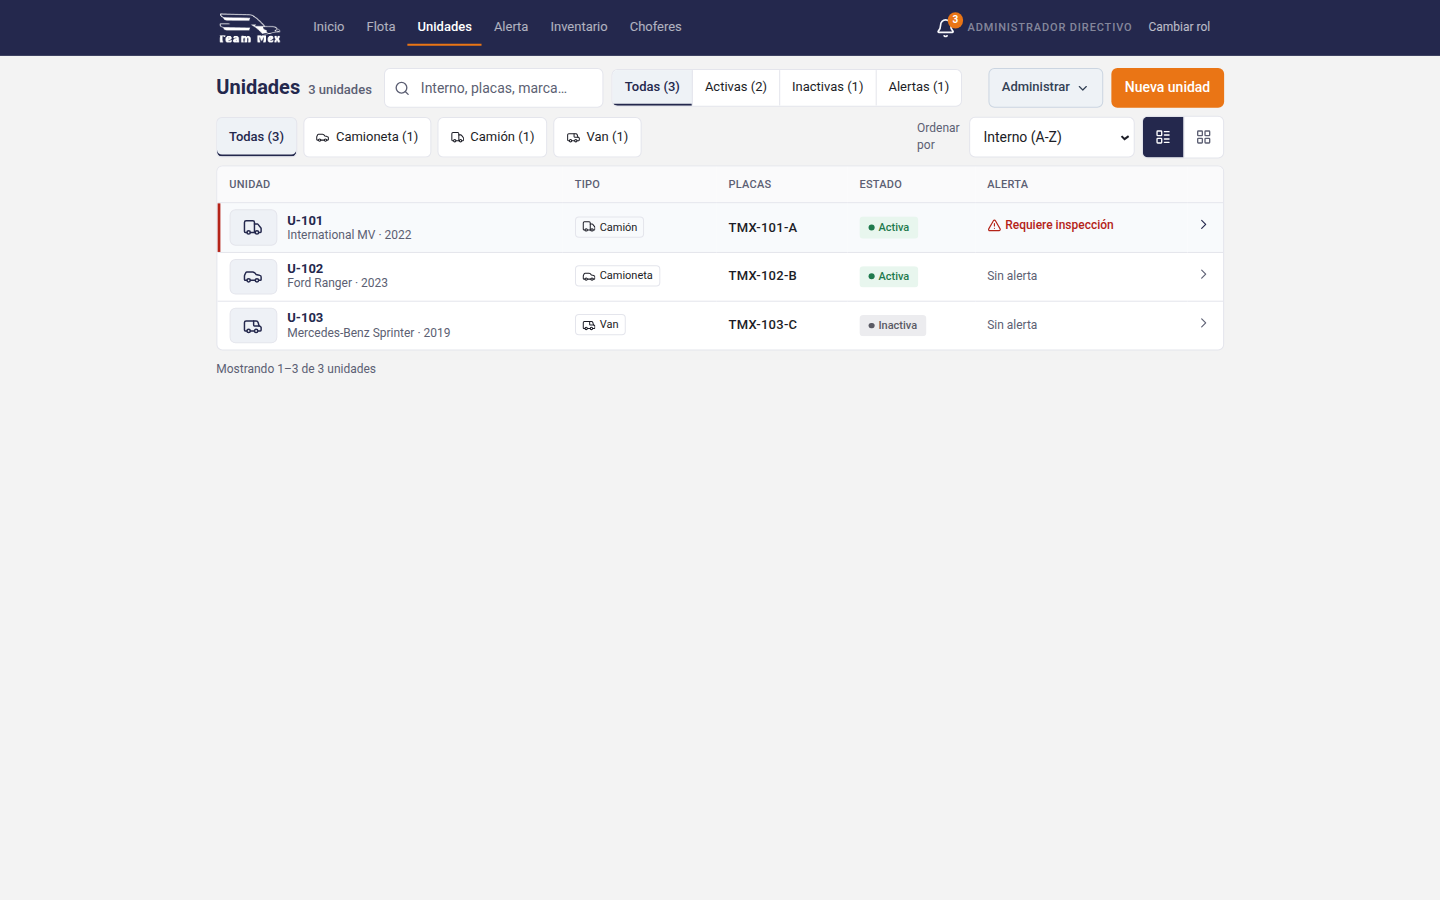
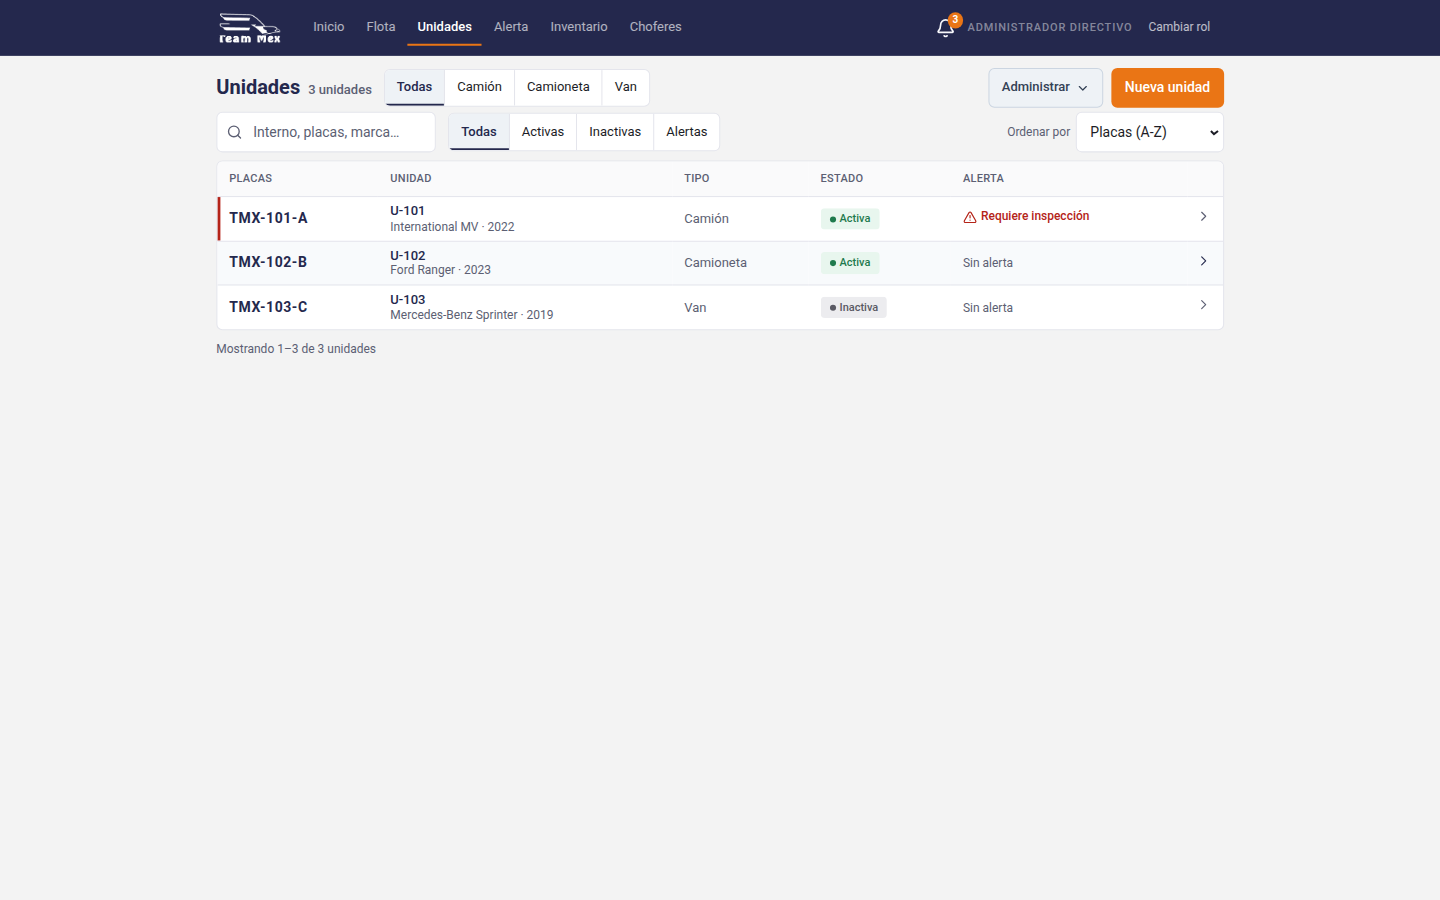
fix(web): Mode B Unidades chrome matches Stock
Tipo chips sit on the title row; search and estado drop to the tools row. Placas stay first without per-row Lucide. Recapture hovered d1440 shots.

diff --git a/web/src/components/UnidadesCatalogo.tsx b/web/src/components/UnidadesCatalogo.tsx
@@ -20,7 +20,6 @@ import { Input, NativeSelect } from '@/components/ui/input';
 import {
   avisoDeUnidad,
   etiquetaSituacionAtencion,
-  kpisFlota,
   ordenarTiposChip,
   ordenarUnidades,
   situacionAtencion,
@@ -134,7 +133,6 @@ export function UnidadesCatalogo({
   const [page, setPage] = useState(1);
   const [isMobile, setIsMobile] = useState(false);
 
-  const kpis = useMemo(() => kpisFlota(flota, avisos), [flota, avisos]);
   const tipoSeleccionado = tipos.find((t) => t.id === tipoFiltro) ?? null;
   const estadoChip: EstadoChip = atencionFiltro
     ? 'ATENCION'
@@ -209,15 +207,9 @@ export function UnidadesCatalogo({
         id: 'unidad',
         header: 'Unidad',
         cell: ({ row }) => (
-          <div className="unidades-unidad">
-            <UnidadTipoMark
-              nombre={row.original.tipo.nombre}
-              icono={row.original.tipo.icono}
-            />
-            <div>
-              <div className="unidades-interno">{row.original.numeroInterno}</div>
-              <div className="unidades-modelo">{etiquetaUnidad(row.original)}</div>
-            </div>
+          <div>
+            <div className="unidades-interno">{row.original.numeroInterno}</div>
+            <div className="unidades-modelo">{etiquetaUnidad(row.original)}</div>
           </div>
         ),
       },
@@ -225,16 +217,7 @@ export function UnidadesCatalogo({
         id: 'tipo',
         header: 'Tipo',
         cell: ({ row }) => (
-          <Badge
-            variant="outline"
-            className="gap-1 font-normal normal-case tracking-normal"
-          >
-            <UnidadTipoIcon
-              nombre={row.original.tipo.nombre}
-              icono={row.original.tipo.icono}
-            />
-            {row.original.tipo.nombre}
-          </Badge>
+          <span className="unidades-tipo">{row.original.tipo.nombre}</span>
         ),
       },
       {
@@ -263,77 +246,74 @@ export function UnidadesCatalogo({
           title="Unidades"
           countLabel={`${ordenadas.length} ${ordenadas.length === 1 ? 'unidad' : 'unidades'}`}
           filters={
-            <>
-              <div className="list-chrome__search">
-                <Search
-                  className="pointer-events-none absolute top-1/2 left-2.5 size-4 -translate-y-1/2 text-muted-foreground"
-                  aria-hidden
-                />
-                <Input
-                  value={q}
-                  onChange={(e) => onQ(e.target.value)}
-                  placeholder="Interno, placas, marca…"
-                  aria-label="Buscar unidad"
-                  className="pl-9"
-                />
-              </div>
+            tiposChip.length > 0 ? (
               <ListFilter
-                label="Estado"
+                label="Tipo"
                 segmented
-                value={estadoChip}
+                value={tipoChipValue}
                 options={[
-                  { id: 'TODOS', label: `Todas (${kpis.total})` },
-                  { id: 'ACTIVA', label: `Activas (${kpis.activas})` },
-                  { id: 'INACTIVA', label: `Inactivas (${kpis.inactivas})` },
-                  { id: 'ATENCION', label: `Alertas (${kpis.conAviso})` },
+                  { id: 'TODAS', label: 'Todas' },
+                  ...tiposChip.map((tipo) => ({
+                    id: tipo.id,
+                    label: tipo.nombre,
+                  })),
                 ]}
-                onChange={aplicarEstado}
+                onChange={(next) =>
+                  onTipoFiltro(next === 'TODAS' ? '' : next)
+                }
               />
-              {tiposChip.length > 0 ? (
-                <ListFilter
-                  label="Tipo"
-                  segmented
-                  value={tipoChipValue}
-                  options={[
-                    { id: 'TODAS', label: 'Todas' },
-                    ...tiposChip.map((tipo) => ({
-                      id: tipo.id,
-                      label: tipo.nombre,
-                    })),
-                  ]}
-                  onChange={(next) =>
-                    onTipoFiltro(next === 'TODAS' ? '' : next)
-                  }
-                />
-              ) : null}
-              {buscando ? (
-                <Button
-                  type="button"
-                  variant="quiet"
-                  onClick={limpiarFiltros}
-                >
-                  <RotateCcw className="size-3.5" aria-hidden />
-                  Limpiar
-                </Button>
-              ) : null}
-              <label className="unidades-sort">
-                <span>Ordenar por</span>
-                <NativeSelect
-                  value={sort}
-                  onChange={(e) => setSort(e.target.value as UnidadesSort)}
-                  aria-label="Ordenar por"
-                >
-                  {SORT_OPTIONS.map((option) => (
-                    <option key={option.id} value={option.id}>
-                      {option.label}
-                    </option>
-                  ))}
-                </NativeSelect>
-              </label>
-            </>
+            ) : null
           }
           actions={actions}
         />
+
+      <div className="unidades-toolbar">
+        <div className="list-chrome__search">
+          <Search
+            className="pointer-events-none absolute top-1/2 left-2.5 size-4 -translate-y-1/2 text-muted-foreground"
+            aria-hidden
+          />
+          <Input
+            value={q}
+            onChange={(e) => onQ(e.target.value)}
+            placeholder="Interno, placas, marca…"
+            aria-label="Buscar unidad"
+            className="pl-9"
+          />
+        </div>
+        <ListFilter
+          label="Estado"
+          segmented
+          value={estadoChip}
+          options={[
+            { id: 'TODOS', label: 'Todas' },
+            { id: 'ACTIVA', label: 'Activas' },
+            { id: 'INACTIVA', label: 'Inactivas' },
+            { id: 'ATENCION', label: 'Alertas' },
+          ]}
+          onChange={aplicarEstado}
+        />
+        {buscando ? (
+          <Button type="button" variant="quiet" onClick={limpiarFiltros}>
+            <RotateCcw className="size-3.5" aria-hidden />
+            Limpiar
+          </Button>
+        ) : null}
+        <label className="unidades-sort">
+          <span>Ordenar por</span>
+          <NativeSelect
+            value={sort}
+            onChange={(e) => setSort(e.target.value as UnidadesSort)}
+            aria-label="Ordenar por"
+          >
+            {SORT_OPTIONS.map((option) => (
+              <option key={option.id} value={option.id}>
+                {option.label}
+              </option>
+            ))}
+          </NativeSelect>
+        </label>
+      </div>
       </form>
 
       {isAdmin && tipoSeleccionado ? (

diff --git a/web/src/app/globals.css b/web/src/app/globals.css
@@ -1981,7 +1981,6 @@
     display: flex;
     flex-wrap: wrap;
     align-items: center;
-    justify-content: flex-end;
     gap: 8px 12px;
     margin: -4px 0 8px;
     min-width: 0;
@@ -1989,19 +1988,19 @@
 
   .unidades-toolbar .list-filter {
     margin: 0;
-    flex: 1;
-    min-width: 0;
-    max-width: 100%;
-    flex-wrap: nowrap;
-    overflow-x: auto;
-    overscroll-behavior-x: contain;
-    -webkit-overflow-scrolling: touch;
   }
 
-  .unidades-page .list-chrome__filters .list-filter--segmented {
-    flex-wrap: nowrap;
-    overflow-x: auto;
-    max-width: 100%;
+  .unidades-page .list-chrome {
+    align-items: center;
+  }
+
+  .unidades-page .list-chrome__filters {
+    flex: 1 1 auto;
+    min-width: 0;
+  }
+
+  .unidades-page .list-chrome__actions {
+    margin-left: auto;
   }
 
   .unidades-page .list-filter button {
@@ -2034,6 +2033,8 @@
     display: inline-flex;
     align-items: center;
     gap: 6px;
+    margin-left: auto;
+    white-space: nowrap;
     font-size: 12px;
     color: var(--muted-foreground);
   }
@@ -2105,6 +2106,12 @@
     font-weight: 600;
     letter-spacing: 0.04em;
     color: var(--navy);
+  }
+
+  .unidades-tipo {
+    font-size: 13px;
+    font-weight: 400;
+    color: var(--muted-foreground);
   }
 
   .unidades-estado {
